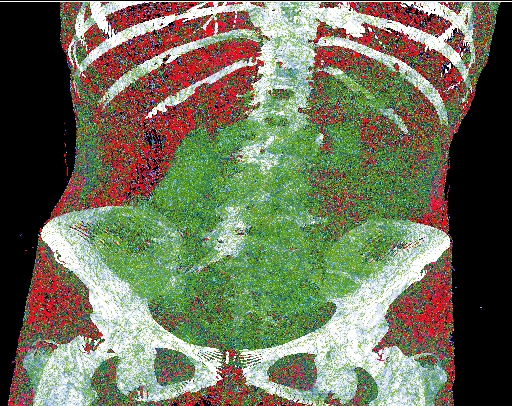
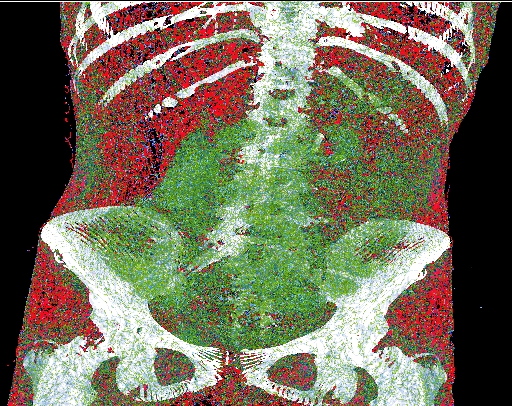
more images

diff --git a/VolumeRenderCStuff/Volume.cc b/VolumeRenderCStuff/Volume.cc
@@ -28,7 +28,7 @@ int Volume::RenderVolume(const char *outputName, int imageWidth, int imageHeight
   for (int i = 0; i < imageWidth; i++) {
     cout << i << endl;
     for (int j = 0; j < imageHeight; j++) {
-      vec3 curColor = GetColor({(float) i * xStep, (float) j * yStep, 0.0}, {0.0, 0.0, 1.0}, 2.0);
+      vec3 curColor = GetColor({(float) i * xStep, (float) j * yStep, 0.0}, {0.0, 0.0, 1.0}, 2.5);
       // vec3 curColor = GetColor({(float) i * xStep, 0.0, (float) j * yStep}, {0.0, 1.0, 0.0}, 1.25);
       buf[(i + (imageHeight - j) * imageWidth) * 3] = (unsigned char) curColor.x;
       buf[(i + (imageHeight - j) * imageWidth) * 3 + 1] = (unsigned char) curColor.y;
